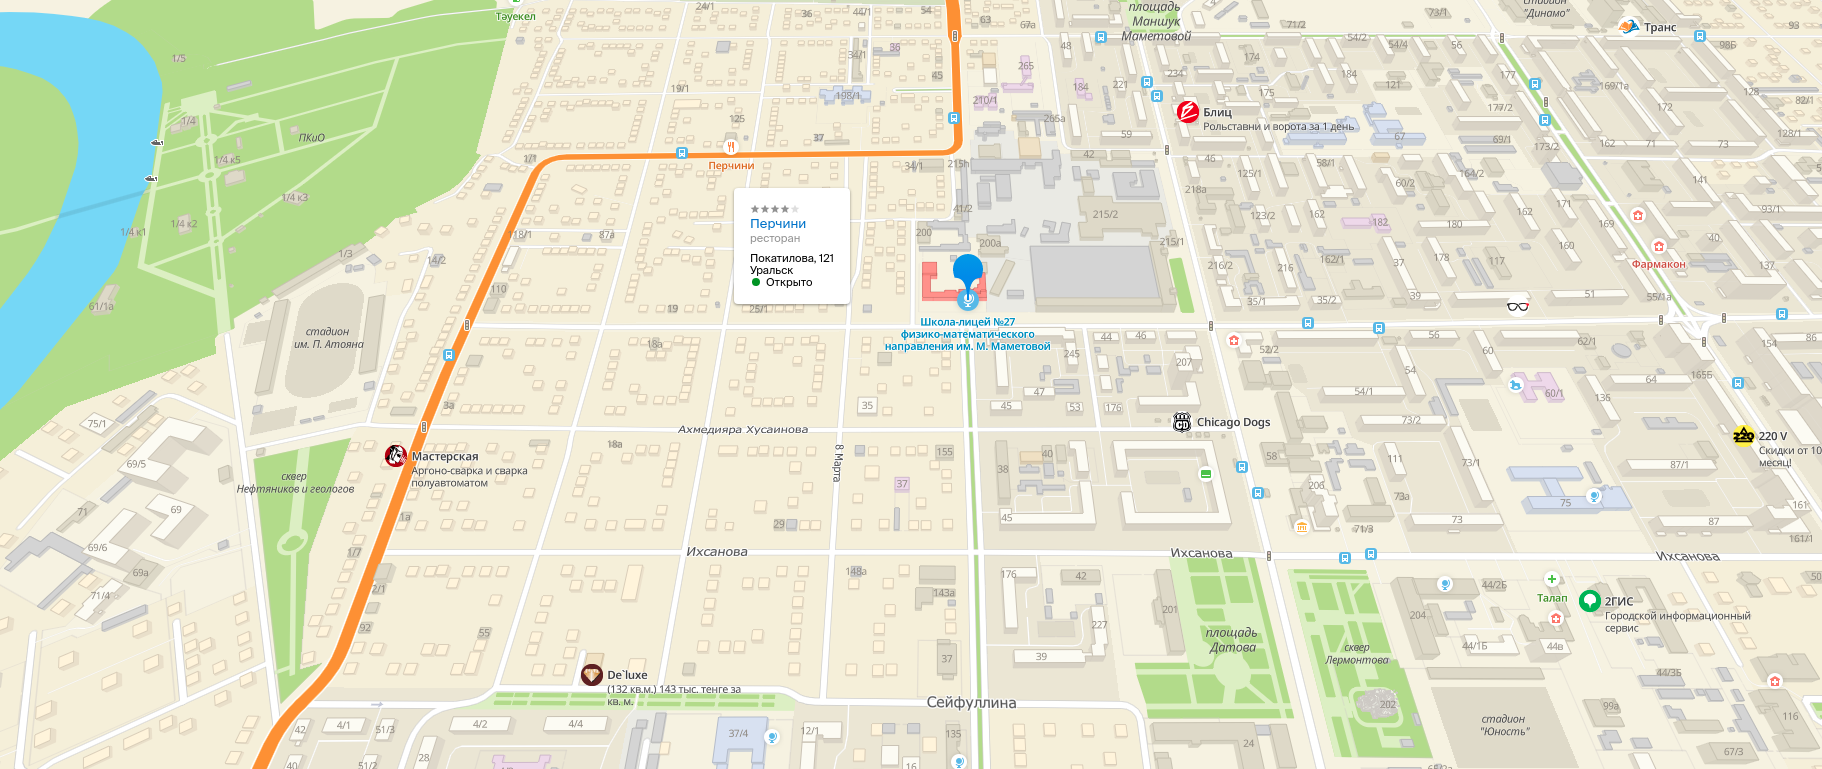
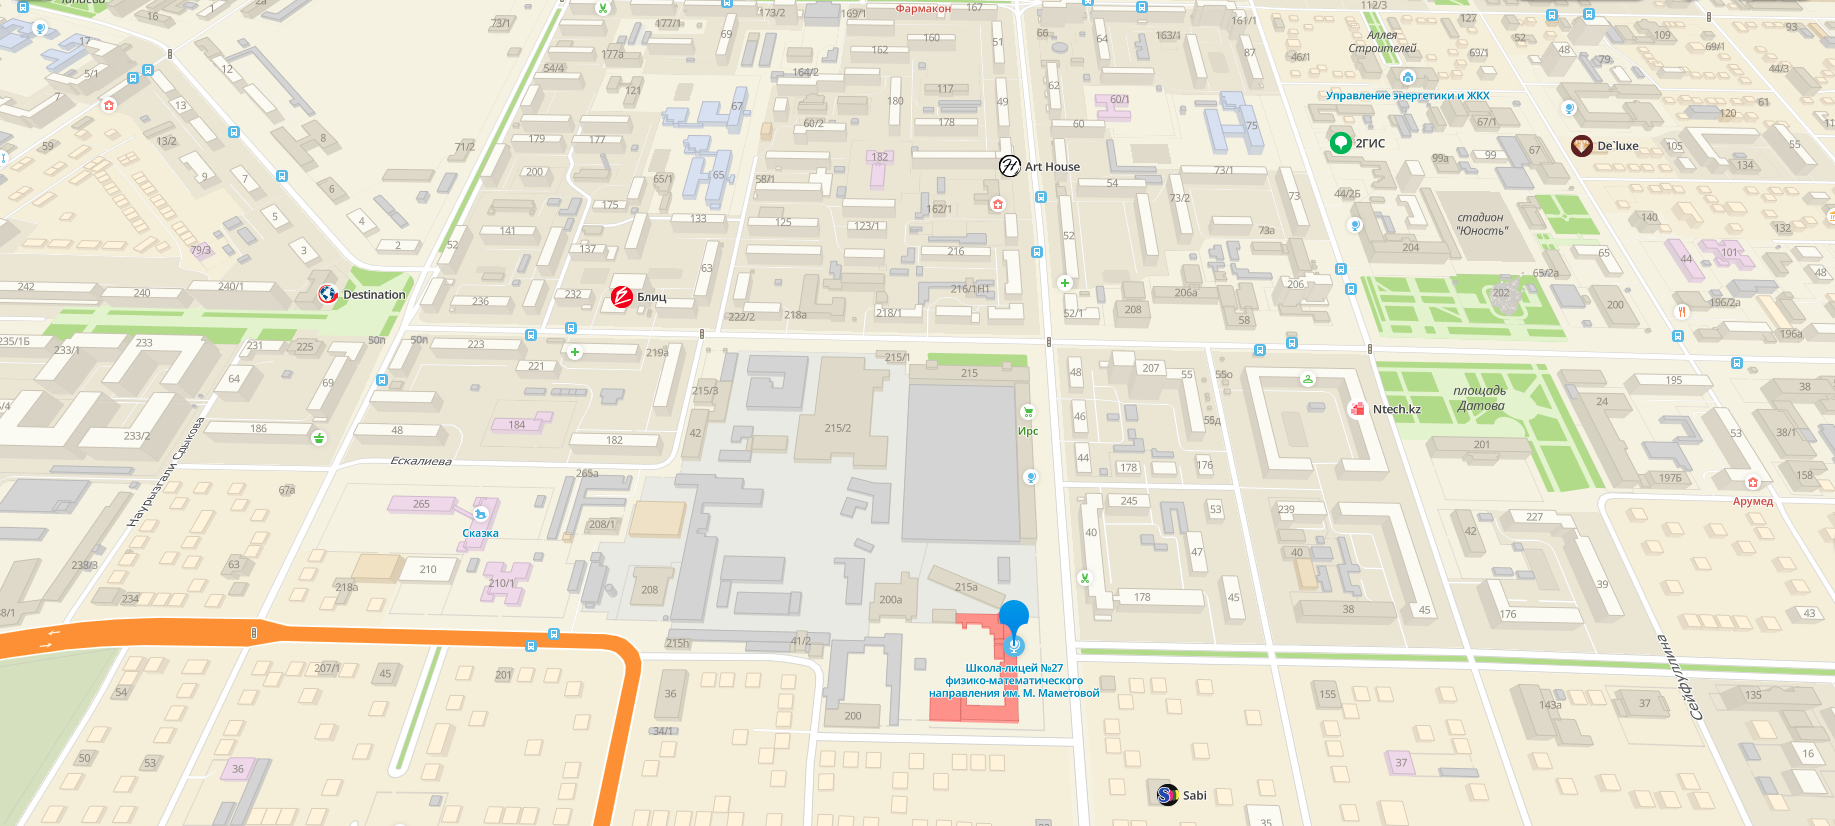
27

diff --git a/src/labels.js b/src/labels.js
@@ -779,11 +779,23 @@ export const Labels = {
     },
   },
   27: {
-    1: {
-      top: "73%",
-      left: "25%",
-      width: "8%",
+    2: {
+      paddingLeft: "20%",
+      top: "37%",
+      left: "22%",
+      width: "78%",
       fontSize: "1.4vw",
+      deg: 1.4,
+      borderBottom: `.3vw solid ${defaultColor}`,
+    },
+    3: {
+      paddingLeft: "17%",
+      top: "47.7%",
+      left: "34%",
+      width: "45%",
+      fontSize: "1.4vw",
+      deg: -94,
+      borderBottom: `.3vw solid ${defaultColor}`,
     },
   },
   28: {
